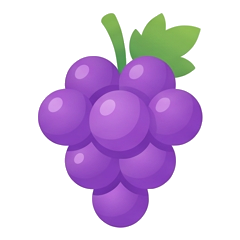
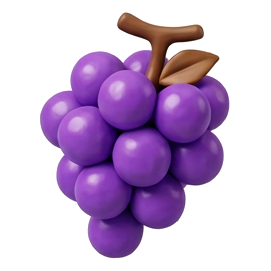
Новые картинки в герое, компактные картинки с рамками, голос только по кнопке (у каждого вопроса), контрастная кнопка Заказать

diff --git a/css/styles.css b/css/styles.css
@@ -152,10 +152,16 @@ p { margin: 0 0 1em; }
 .btn:hover { transform: translateY(-2px); }
 .btn:active { transform: translateY(0) scale(.98); }
 .btn-primary {
-  color: #fff; background: var(--gradient); background-size: 200% 100%;
-  box-shadow: 0 8px 24px rgba(120, 100, 220, .35);
+  color: #fff; background: linear-gradient(90deg, #2b6de0 0%, #7a4fc9 50%, #d34c66 100%); background-size: 200% 100%;
+  border: 2px solid rgba(255,255,255,.85); text-shadow: 0 1px 2px rgba(0,0,0,.25);
+  box-shadow: 0 10px 28px rgba(80, 70, 200, .4), 0 0 0 1px rgba(60,60,140,.12);
 }
-.btn-primary:hover { background-position: 100% 0; box-shadow: 0 12px 30px rgba(120, 100, 220, .45); }
+[data-theme="colorful"] .btn-primary { background: linear-gradient(90deg, #e8433f 0%, #e39b00 50%, #0aa885 100%); background-size: 200% 100%; }
+[data-theme="custom"] .btn-primary { background: var(--gradient); background-size: 200% 100%; }
+.btn-primary:hover { background-position: 100% 0; box-shadow: 0 14px 34px rgba(80, 70, 200, .5), 0 0 0 1px rgba(60,60,140,.15); }
+.btn-hero { font-size: 1.15rem; padding: 1.1rem 2.4rem; border-radius: 999px; }
+.btn-hero::after { content: "→"; font-size: 1.2em; line-height: 1; transition: transform .2s; }
+.btn-hero:hover::after { transform: translateX(4px); }
 .btn-glass {
   background: var(--glass-bg-strong); border-color: var(--glass-border);
   backdrop-filter: blur(12px); -webkit-backdrop-filter: blur(12px);
@@ -234,7 +240,7 @@ body:not(.sound-off) .ico-off { display: none; }
 .badge { font-size: .78rem; font-weight: 700; padding: .3rem .7rem; border-radius: 999px; color: #fff; background: var(--gradient); }
 .score { font-family: var(--font-display); font-weight: 700; }
 .hero-card-q { font-size: 1.25rem; font-weight: 700; margin-bottom: 1rem; }
-.hero-grid { display: grid; grid-template-columns: repeat(4, 1fr); gap: .6rem; }
+.hero-grid { display: grid; grid-template-columns: repeat(4, 1fr); gap: .6rem; max-width: 360px; }
 .hero-card-hint { color: var(--muted); font-size: .85rem; margin: 1rem 0 0; }
 .tile {
   aspect-ratio: 1; border-radius: var(--radius-sm); display: grid; place-items: center; font-size: 2rem;
@@ -248,16 +254,35 @@ body:not(.sound-off) .ico-off { display: none; }
 @keyframes shake { 20%,60% { transform: translateX(-6px); } 40%,80% { transform: translateX(6px); } }
 
 /* ---------- Картинки ---------- */
-.pic { width: 56px; height: 56px; object-fit: contain; display: inline-block; vertical-align: middle; filter: drop-shadow(0 4px 8px rgba(0,0,0,.12)); }
-.pic-sm { width: 44px; height: 44px; }
-.pic-md { width: 70%; height: 70%; }
-.pic-lg { width: 140px; height: 140px; }
+/* картинки в упражнениях — компактные, в рамке */
+.pic {
+  width: 48px; height: 48px; object-fit: contain; display: inline-block; vertical-align: middle; padding: 5px;
+  border-radius: 12px; border: 2px solid var(--line); background: rgba(255,255,255,.85); box-shadow: 0 2px 6px rgba(60,70,120,.08);
+}
+[data-theme="dark"] .pic { background: rgba(255,255,255,.08); }
+.pic-sm { width: 40px; height: 40px; padding: 4px; border-radius: 10px; }
+.pic-md { width: 62%; height: 62%; padding: 6px; border-radius: 14px; }
+.pic-lg { width: 96px; height: 96px; padding: 8px; border-radius: 18px; border-width: 2px; }
+.pair-item.ok .pic, .pair-item.sel .pic { border-color: inherit; }
+.mem-card.done .pic { border-color: var(--ok); }
+/* кнопка «прослушать» у вопроса */
+.speak-btn {
+  display: inline-grid; place-items: center; width: 36px; height: 36px; border-radius: 50%; border: 1.5px solid var(--line);
+  background: var(--glass-bg-strong); color: var(--g1); margin-left: .6rem; vertical-align: middle; flex-shrink: 0;
+  transition: transform .15s, background .2s, color .2s;
+}
+.speak-btn:hover { transform: scale(1.1); color: #fff; background: var(--gradient); border-color: transparent; }
+.quiz-q { display: flex; flex-wrap: wrap; align-items: center; gap: .2rem .4rem; }
+.quiz-q .num { width: 100%; }
+.quiz-q .q-text { flex: 1; min-width: 0; }
+.tf-statement { display: flex; align-items: center; justify-content: center; gap: .5rem; flex-wrap: wrap; }
+.word-pic { display: flex; justify-content: center; align-items: center; gap: .75rem; margin-bottom: 1rem; }
 .card-ico img { width: 72%; height: 72%; object-fit: contain; filter: drop-shadow(0 3px 6px rgba(0,0,0,.18)); }
-.tile img { width: 78%; height: 78%; object-fit: contain; pointer-events: none; transition: transform .2s; }
+.tile img { width: 66%; height: 66%; object-fit: contain; pointer-events: none; transition: transform .2s; }
+.tile { border: 2px solid var(--line); }
 .tile:hover img { transform: scale(1.08); }
 .tab img { width: 26px; height: 26px; object-fit: contain; margin-right: .45rem; vertical-align: -7px; }
 .type span img { width: 82%; height: 82%; object-fit: contain; }
-.word-pic { display: flex; justify-content: center; margin-bottom: 1rem; }
 .word-pic .pic { animation: bob 3s ease-in-out infinite; }
 @keyframes bob { 50% { transform: translateY(-6px); } }
 .pair-item { display: flex; align-items: center; gap: .6rem; min-height: 60px; justify-content: center; font-size: 1.05rem; }
@@ -396,7 +421,7 @@ body:not(.sound-off) .ico-off { display: none; }
 .tf-btn.dim { opacity: .4; }
 
 /* мемори */
-.memory-grid { display: grid; grid-template-columns: repeat(4, 1fr); gap: .7rem; max-width: 520px; margin: 0 auto; perspective: 800px; }
+.memory-grid { display: grid; grid-template-columns: repeat(4, 1fr); gap: .6rem; max-width: 420px; margin: 0 auto; perspective: 800px; }
 .mem-card { aspect-ratio: 1; position: relative; cursor: pointer; transform-style: preserve-3d; transition: transform .5s; border: 0; background: transparent; padding: 0; }
 .mem-card.flip { transform: rotateY(180deg); }
 .mem-face {
@@ -506,7 +531,8 @@ textarea { resize: vertical; }
   .hero-stats { gap: 1.2rem; }
   .theme-panel { right: 1rem; left: 1rem; width: auto; }
   .demo-stage { padding: 1rem; }
-  .word-slot, .letter-btn { width: 44px; height: 44px; font-size: 1.15rem; }
+  .word-slot, .letter-btn { width: 40px; height: 40px; font-size: 1.05rem; }
+  .pic-lg { width: 80px; height: 80px; }
   .memory-grid { gap: .5rem; }
   .tf-statement { font-size: 1.2rem; }
 }

diff --git a/js/exercises.js b/js/exercises.js
@@ -9,6 +9,13 @@
   const el = (tag, cls, html) => { const e = document.createElement(tag); if (cls) e.className = cls; if (html != null) e.innerHTML = html; return e; };
   const esc = s => String(s).replace(/[&<>"]/g, c => ({ '&': '&amp;', '<': '&lt;', '>': '&gt;', '"': '&quot;' }[c]));
   // «img:hero/apple» → картинка из папки img/, иначе — текст
+  // кнопка «прослушать» рядом с вопросом — озвучивает только по нажатию
+  const speakBtn = text => {
+    const b = el('button', 'speak-btn', '<svg viewBox="0 0 24 24" width="18" height="18"><path fill="currentColor" d="M3 9v6h4l5 5V4L7 9H3zm13.5 3A4.5 4.5 0 0 0 14 7.97v8.05c1.48-.73 2.5-2.25 2.5-4.02zM14 3.23v2.06c2.89.86 5 3.54 5 6.71s-2.11 5.85-5 6.71v2.06c4.01-.91 7-4.49 7-8.77s-2.99-7.86-7-8.77z"/></svg>');
+    b.type = 'button'; b.title = 'Прослушать'; b.setAttribute('aria-label', 'Прослушать');
+    b.addEventListener('click', e => { e.stopPropagation(); Sound.speak(text, { force: true }); });
+    return b;
+  };
   const rich = (s, cls = 'pic') => {
     const m = String(s).trim().match(/^img:([\w\/-]+)$/);
     return m ? `<img src="img/${m[1]}.png" alt="" class="${cls}" draggable="false" />` : esc(s);
@@ -33,7 +40,6 @@
       <button class="btn btn-primary" id="againBtn">Пройти ещё раз</button>`;
     api.result.hidden = false;
     api.result.querySelector('#againBtn').addEventListener('click', () => { Sound.play('click'); api.restart(); });
-    Sound.speak(title);
   }
   function confetti() {
     const colors = ['#4285f4', '#9b72cb', '#d96570', '#22c55e', '#f59e0b', '#06b6d4'];
@@ -89,7 +95,8 @@
         if (i >= d.items.length) return finish(api, { score, total: d.items.length });
         progress(api, i, d.items.length);
         const it = d.items[i];
-        api.body.appendChild(el('div', 'quiz-q', `<span class="num">Вопрос ${i + 1} из ${d.items.length}</span>${esc(it.q)}`));
+        const qEl = el('div', 'quiz-q', `<span class="num">Вопрос ${i + 1} из ${d.items.length}</span><span class="q-text">${esc(it.q)}</span>`);
+        qEl.appendChild(speakBtn(it.q)); api.body.appendChild(qEl);
         const opts = el('div', 'options');
         it.a.forEach((a, k) => {
           const b = el('button', 'opt', `<span class="letter">${letters[k]}</span><span>${esc(a)}</span>`);
@@ -102,7 +109,6 @@
           opts.appendChild(b);
         });
         api.body.appendChild(opts);
-        Sound.speak(it.q);
       };
       step();
     },
@@ -183,7 +189,7 @@
         const [hint, w] = d.items[i];
         const letters = w.split('');
         let pos = 0;
-        api.body.appendChild(el('div', 'word-pic', rich(hint, 'pic pic-lg')));
+        const wp = el('div', 'word-pic', rich(hint, 'pic pic-lg')); wp.appendChild(speakBtn(`Собери слово. ${w.toLowerCase()}`)); api.body.appendChild(wp);
         const target = el('div', 'word-target');
         letters.forEach(() => target.appendChild(el('div', 'word-slot', '')));
         api.body.appendChild(target);
@@ -194,7 +200,7 @@
             if (ch === letters[pos]) {
               b.disabled = true; const s = target.children[pos]; s.textContent = ch; s.classList.add('filled'); pos++; Sound.play('pop');
               if (pos === letters.length) {
-                [...target.children].forEach(x => x.classList.add('ok')); Sound.play('correct'); Sound.speak(w.toLowerCase());
+                [...target.children].forEach(x => x.classList.add('ok')); Sound.play('correct');
                 setTimeout(() => { i++; step(); }, 1100);
               }
             } else { b.classList.add('bad'); mistakes++; Sound.play('wrong'); b.style.animation = 'shake .4s'; setTimeout(() => (b.style.animation = ''), 400); }
@@ -300,6 +306,7 @@
         progress(api, i, d.items.length);
         const [s, v] = d.items[i];
         const card = el('div', 'tf-card', `<div class="tf-statement">${esc(s)}</div>`);
+        card.querySelector('.tf-statement').appendChild(speakBtn(s));
         const btns = el('div', 'tf-buttons');
         const mk = (label, val, cls) => {
           const b = el('button', 'tf-btn ' + cls, label);
@@ -313,7 +320,6 @@
         };
         btns.append(mk('Верно', true, 'tf-true'), mk('Неверно', false, 'tf-false'));
         card.appendChild(btns); api.body.appendChild(card);
-        Sound.speak(s);
       };
       step();
     },

diff --git a/index.html b/index.html
@@ -63,7 +63,7 @@
           Со звуком, анимацией и в вашем стиле.
         </p>
         <div class="hero-cta">
-          <a href="#contact" class="btn btn-primary">Заказать упражнение</a>
+          <a href="#contact" class="btn btn-primary btn-hero">Заказать упражнение</a>
           <a href="#demos" class="btn btn-glass">Попробовать примеры</a>
         </div>
         <ul class="hero-stats">
@@ -158,7 +158,7 @@
         <div class="demo-toolbar">
           <div class="demo-title" id="demoTitle"></div>
           <div class="demo-actions">
-            <button class="btn btn-ghost btn-sm" id="demoSpeak" title="Озвучить задание голосом">Озвучить</button>
+            <button class="btn btn-ghost btn-sm" id="demoSpeak" title="Прослушать задание">Прослушать задание</button>
             <button class="btn btn-ghost btn-sm" id="demoEdit">Редактировать</button>
             <button class="btn btn-ghost btn-sm" id="demoReset" title="Вернуть исходный вариант">Сбросить</button>
             <button class="btn btn-ghost btn-sm" id="demoRestart">Заново</button>

diff --git a/js/audio.js b/js/audio.js
@@ -8,8 +8,10 @@
   const KEY_VOICE = 'lessons_voice';
   let ctx = null;
   let enabled = localStorage.getItem(KEY) !== 'off';
-  // Голос ВЫКЛЮЧЕН по умолчанию — включается только после нажатия кнопки
-  let voiceOn = localStorage.getItem(KEY_VOICE) === 'on';
+  // Голос ВСЕГДА выключен при загрузке страницы — включается только нажатием кнопки
+  // и не запоминается между перезагрузками (чтобы ничего не говорило само).
+  let voiceOn = false;
+  localStorage.removeItem(KEY_VOICE);
 
   function getCtx() {
     if (!ctx) {
@@ -81,7 +83,6 @@
 
   function setVoice(v) {
     voiceOn = !!v;
-    localStorage.setItem(KEY_VOICE, voiceOn ? 'on' : 'off');
     document.body.classList.toggle('voice-on', voiceOn);
     if (!voiceOn && 'speechSynthesis' in window) window.speechSynthesis.cancel();
   }

diff --git a/js/app.js b/js/app.js
@@ -35,8 +35,8 @@
     voiceBtn.addEventListener('click', () => {
       Sound.setVoice(!Sound.isVoiceOn());
       syncVoice();
-      if (Sound.isVoiceOn()) { Sound.speak('Озвучка включена. Задания теперь будут читаться вслух.'); toast('Голосовая озвучка включена'); }
-      else toast('Голосовая озвучка выключена');
+      if (Sound.isVoiceOn()) { Sound.speak('Озвучка включена.'); toast('Голос включён: кнопки «прослушать» и задания читаются вслух'); }
+      else toast('Голос выключен');
     });
     syncVoice();
 
